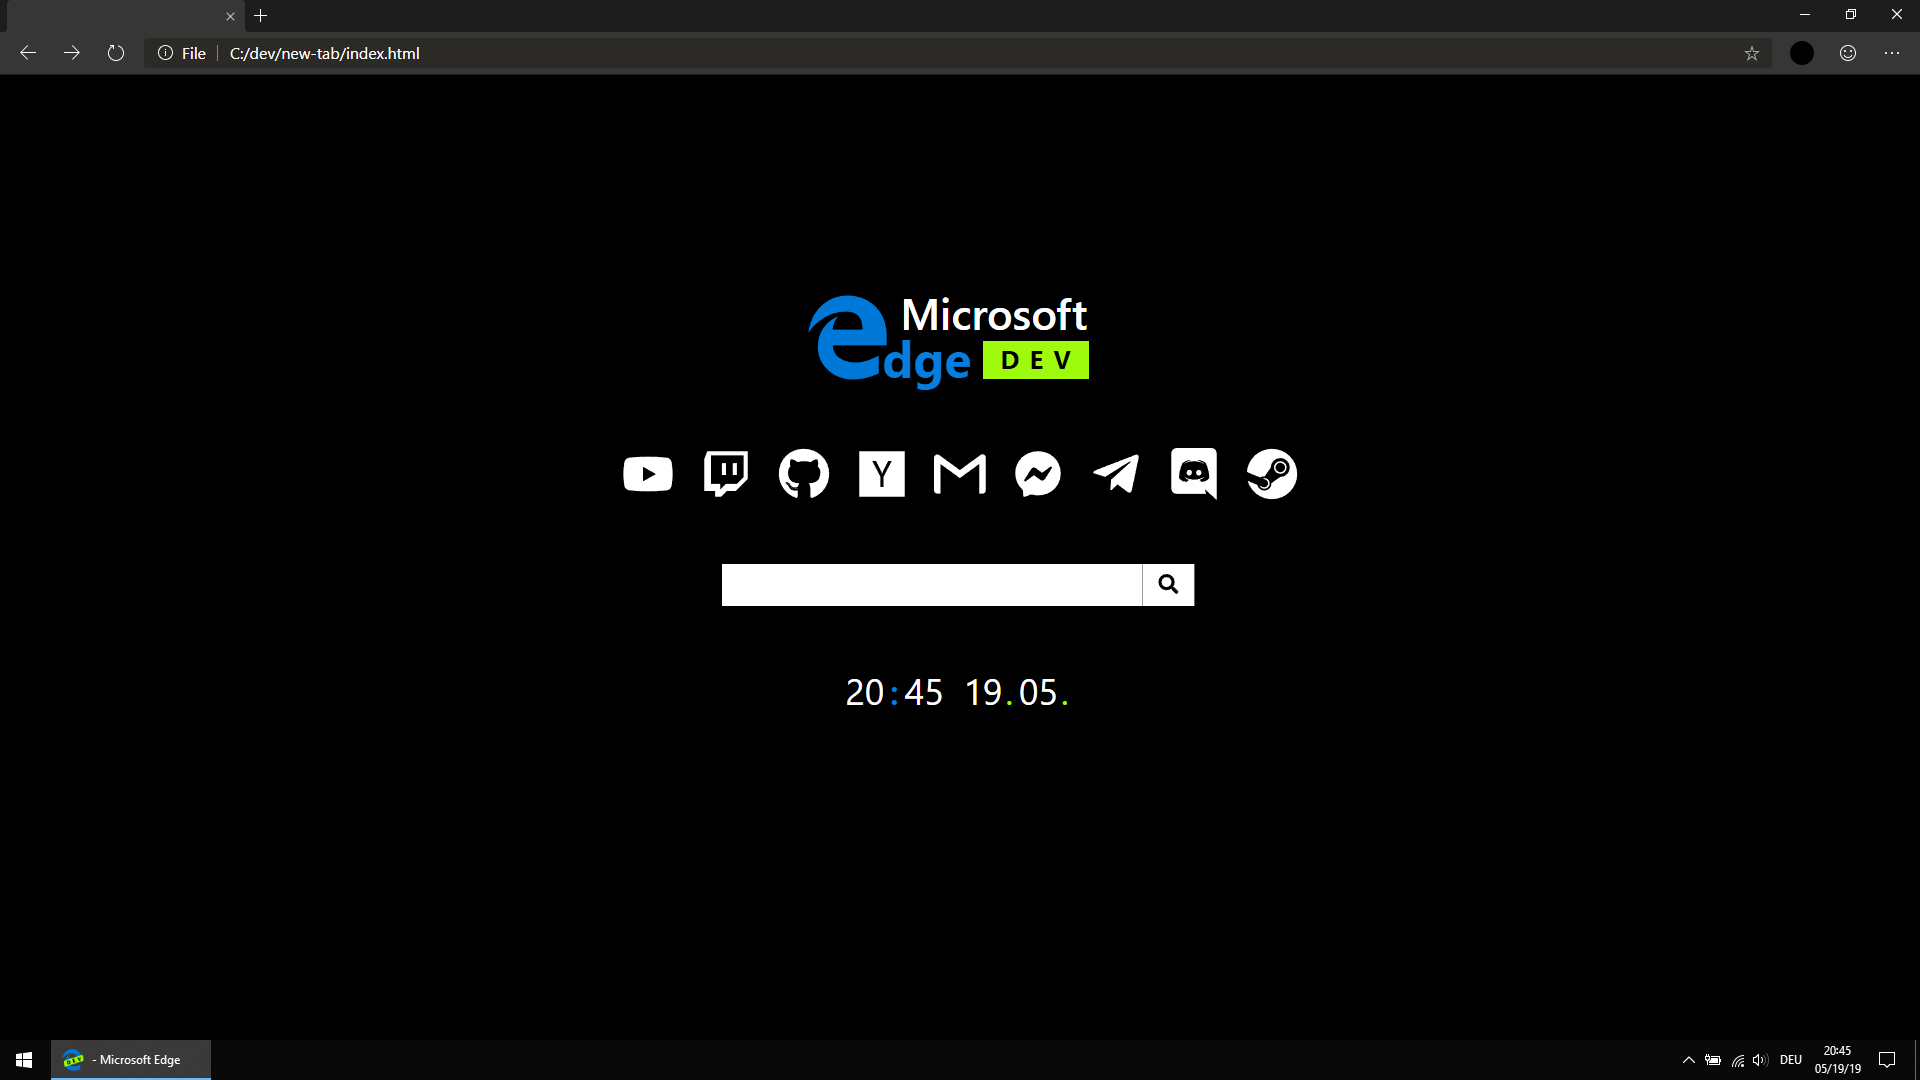
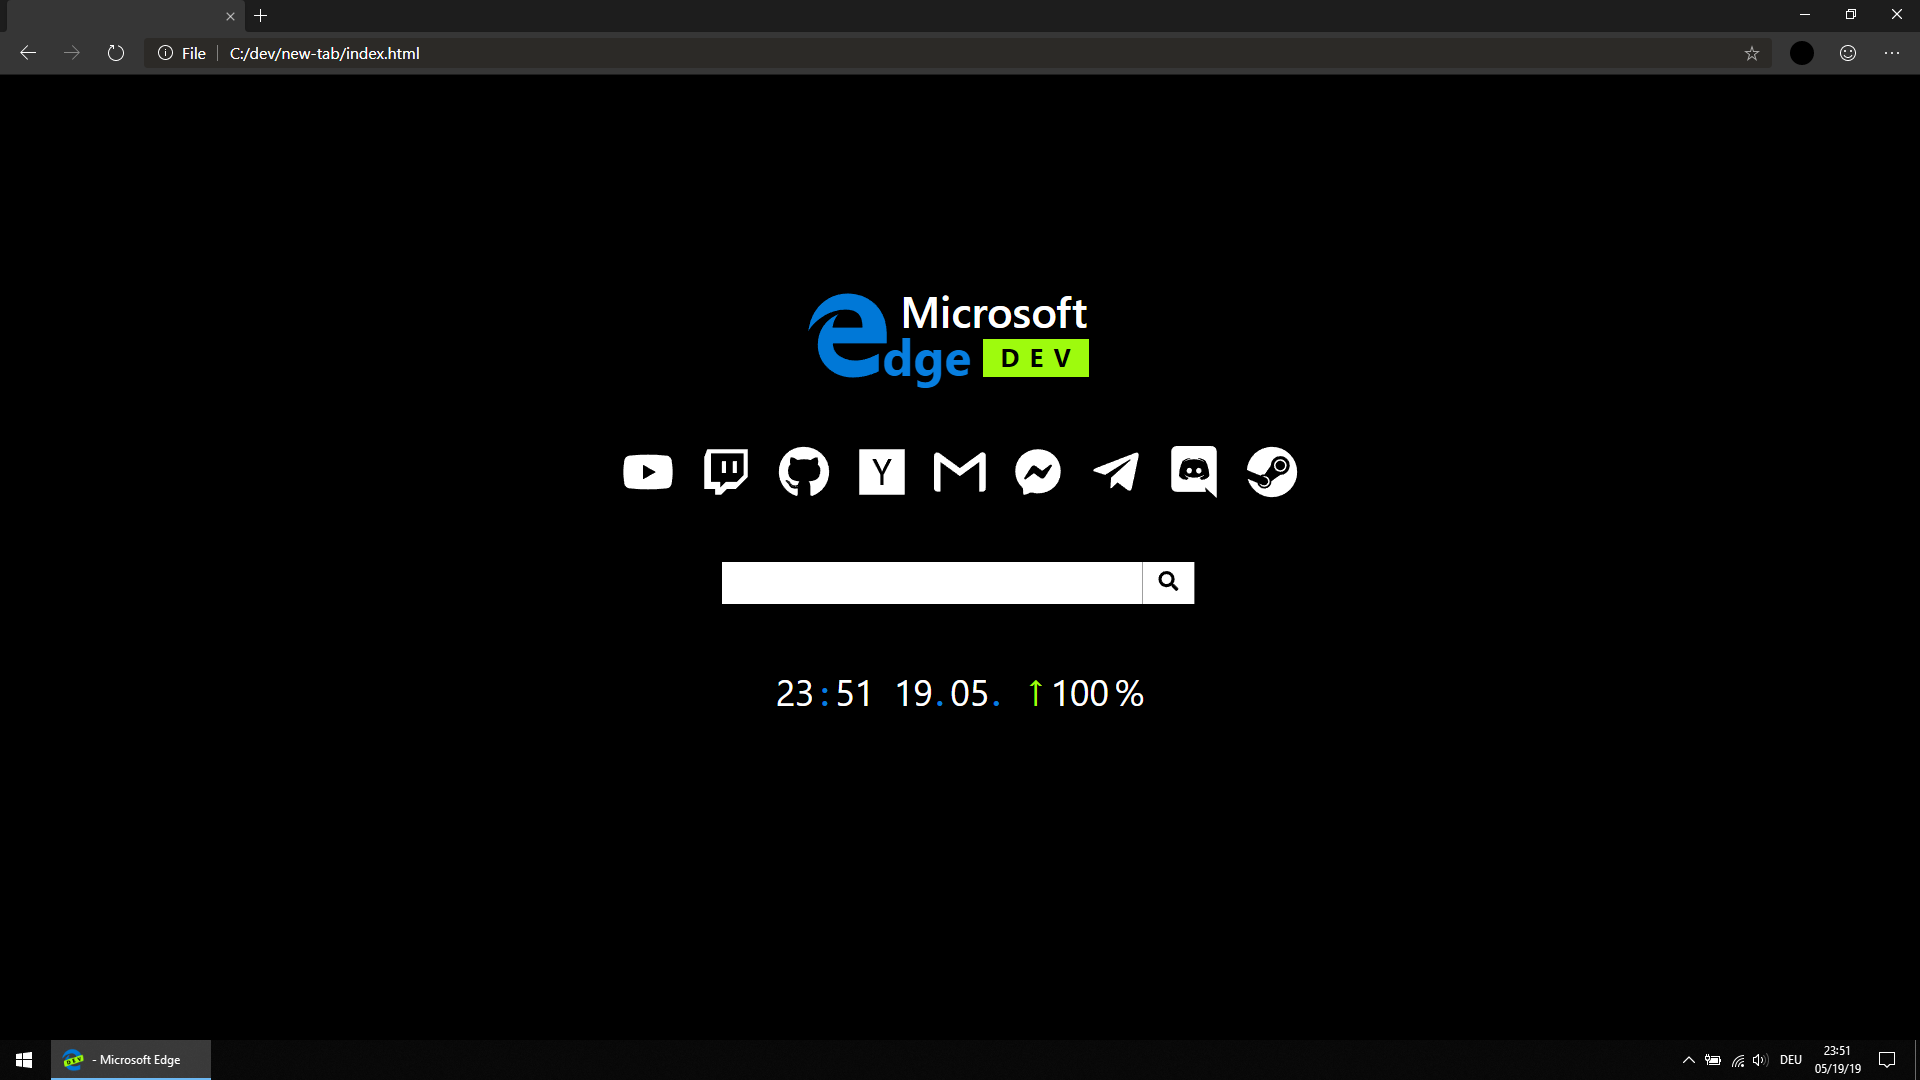
Add battery info

diff --git a/index.html b/index.html
@@ -115,7 +115,7 @@
       height: 42px;
       width: 52px;
       padding: 0;
-      transform: translate(-3.6px, 0);
+      transform: translate(-3.6px, -1px);
       border: none;
       cursor: pointer;
       background: white;
@@ -130,7 +130,7 @@
       width: 20px;
     }
 
-    .time {
+    .info {
       margin-top: 60px;
       font-size: 36px;
     }
@@ -146,10 +146,37 @@
       margin-right: 6px;
     }
 
+    .date {
+      margin-right: 10px;
+    }
+
     .dot {
-      color: #9efb0d;
+      color: #077edf;
+      font-weight: 600;
       margin-left: 3px;
       margin-right: 6px;
+    }
+
+    .pink {
+      color: deeppink !important;
+    }
+
+    .charging {
+      color: #9efb0d;
+      font-size: 38px;
+      margin-right: 4px;
+    }
+
+    .underscores {
+      color: #9efb0d;
+      display: inline-block;
+      transform: translateY(-4px);
+      margin-right: 2px;
+      letter-spacing: 4px;
+    }
+
+    .percent {
+      margin-left: 6px;
     }
 
   </style>
@@ -252,42 +279,69 @@
     <form>
   </div>
 
-  <div class="time">
+  <div class="info">
     <span class="clock">
-      <span class="hour"></span><span class="colon">:</span><span class="minute"></span>
+      <span class="hour">00</span><span class="colon">:</span><span class="minute">00</span>
     </span>
     <span class="date">
-      <span class="day"></span><span class="dot">.</span><span class="month"></span><span class="dot">.</span>
+      <span class="day">00</span><span class="dot">.</span><span class="month">00</span><span class="dot">.</span>
+    </span>
+    <span class="battery">
+      <span class="charging">↑</span><span class="underscores"></span><span class="charge">100</span><span class="percent">%</span>
     </span>
   </div>
 
   <script>
 
     document.addEventListener("DOMContentLoaded", function () {
+
+      // Clock & Date
+
       var hour = document.querySelector(".hour")
       var minute = document.querySelector(".minute")
       var day = document.querySelector(".day")
       var month = document.querySelector(".month")
 
-      function pad(n) {
-        return n < 10 ? "0" + n : n
-      }
-
       function updateTime() {
         var now = new Date()
-        hour.textContent = pad(now.getHours())
-        minute.textContent = pad(now.getMinutes())
-        day.textContent = pad(now.getDate())
-        month.textContent = pad(now.getMonth() + 1)
+        hour.textContent = padZero(now.getHours())
+        minute.textContent = padZero(now.getMinutes())
+        day.textContent = padZero(now.getDate())
+        month.textContent = padZero(now.getMonth() + 1)
       }
 
+      function padZero(n) { return n < 10 ? "0" + n : n }
+      function nextMinute() { return (60 - new Date().getSeconds()) * 1000 }
+
       updateTime()
-      var now = new Date()
-      var next_minute = (60 - now.getSeconds()) * 1000
       setTimeout(function () {
         updateTime()
         setInterval(updateTime, 60 * 1000)
-      }, next_minute)
+      }, nextMinute())
+
+      // Battery
+
+      var charging = document.querySelector(".charging")
+      var underscores = document.querySelector(".underscores")
+      var charge = document.querySelector(".charge")
+
+      function updateCharge(battery) {
+        let percent = Math.round(battery.level * 100)
+
+        charging.textContent = battery.charging ? "↑" : "↓"
+        battery.charging ? charging.classList.remove("pink") : charging.classList.add("pink")
+
+        underscores.textContent = percent < 10 ? "__" : percent < 100 ? "_" : ""
+        battery.charging ? underscores.classList.remove("pink") : underscores.classList.add("pink")
+
+        charge.textContent = percent
+      }
+
+      navigator.getBattery().then(function (battery) {
+        updateCharge(battery)
+        battery.addEventListener("chargingchange", function () { updateCharge(battery) })
+        battery.addEventListener("levelchange", function () { updateCharge(battery) })
+      })
     })
 
 </script>
